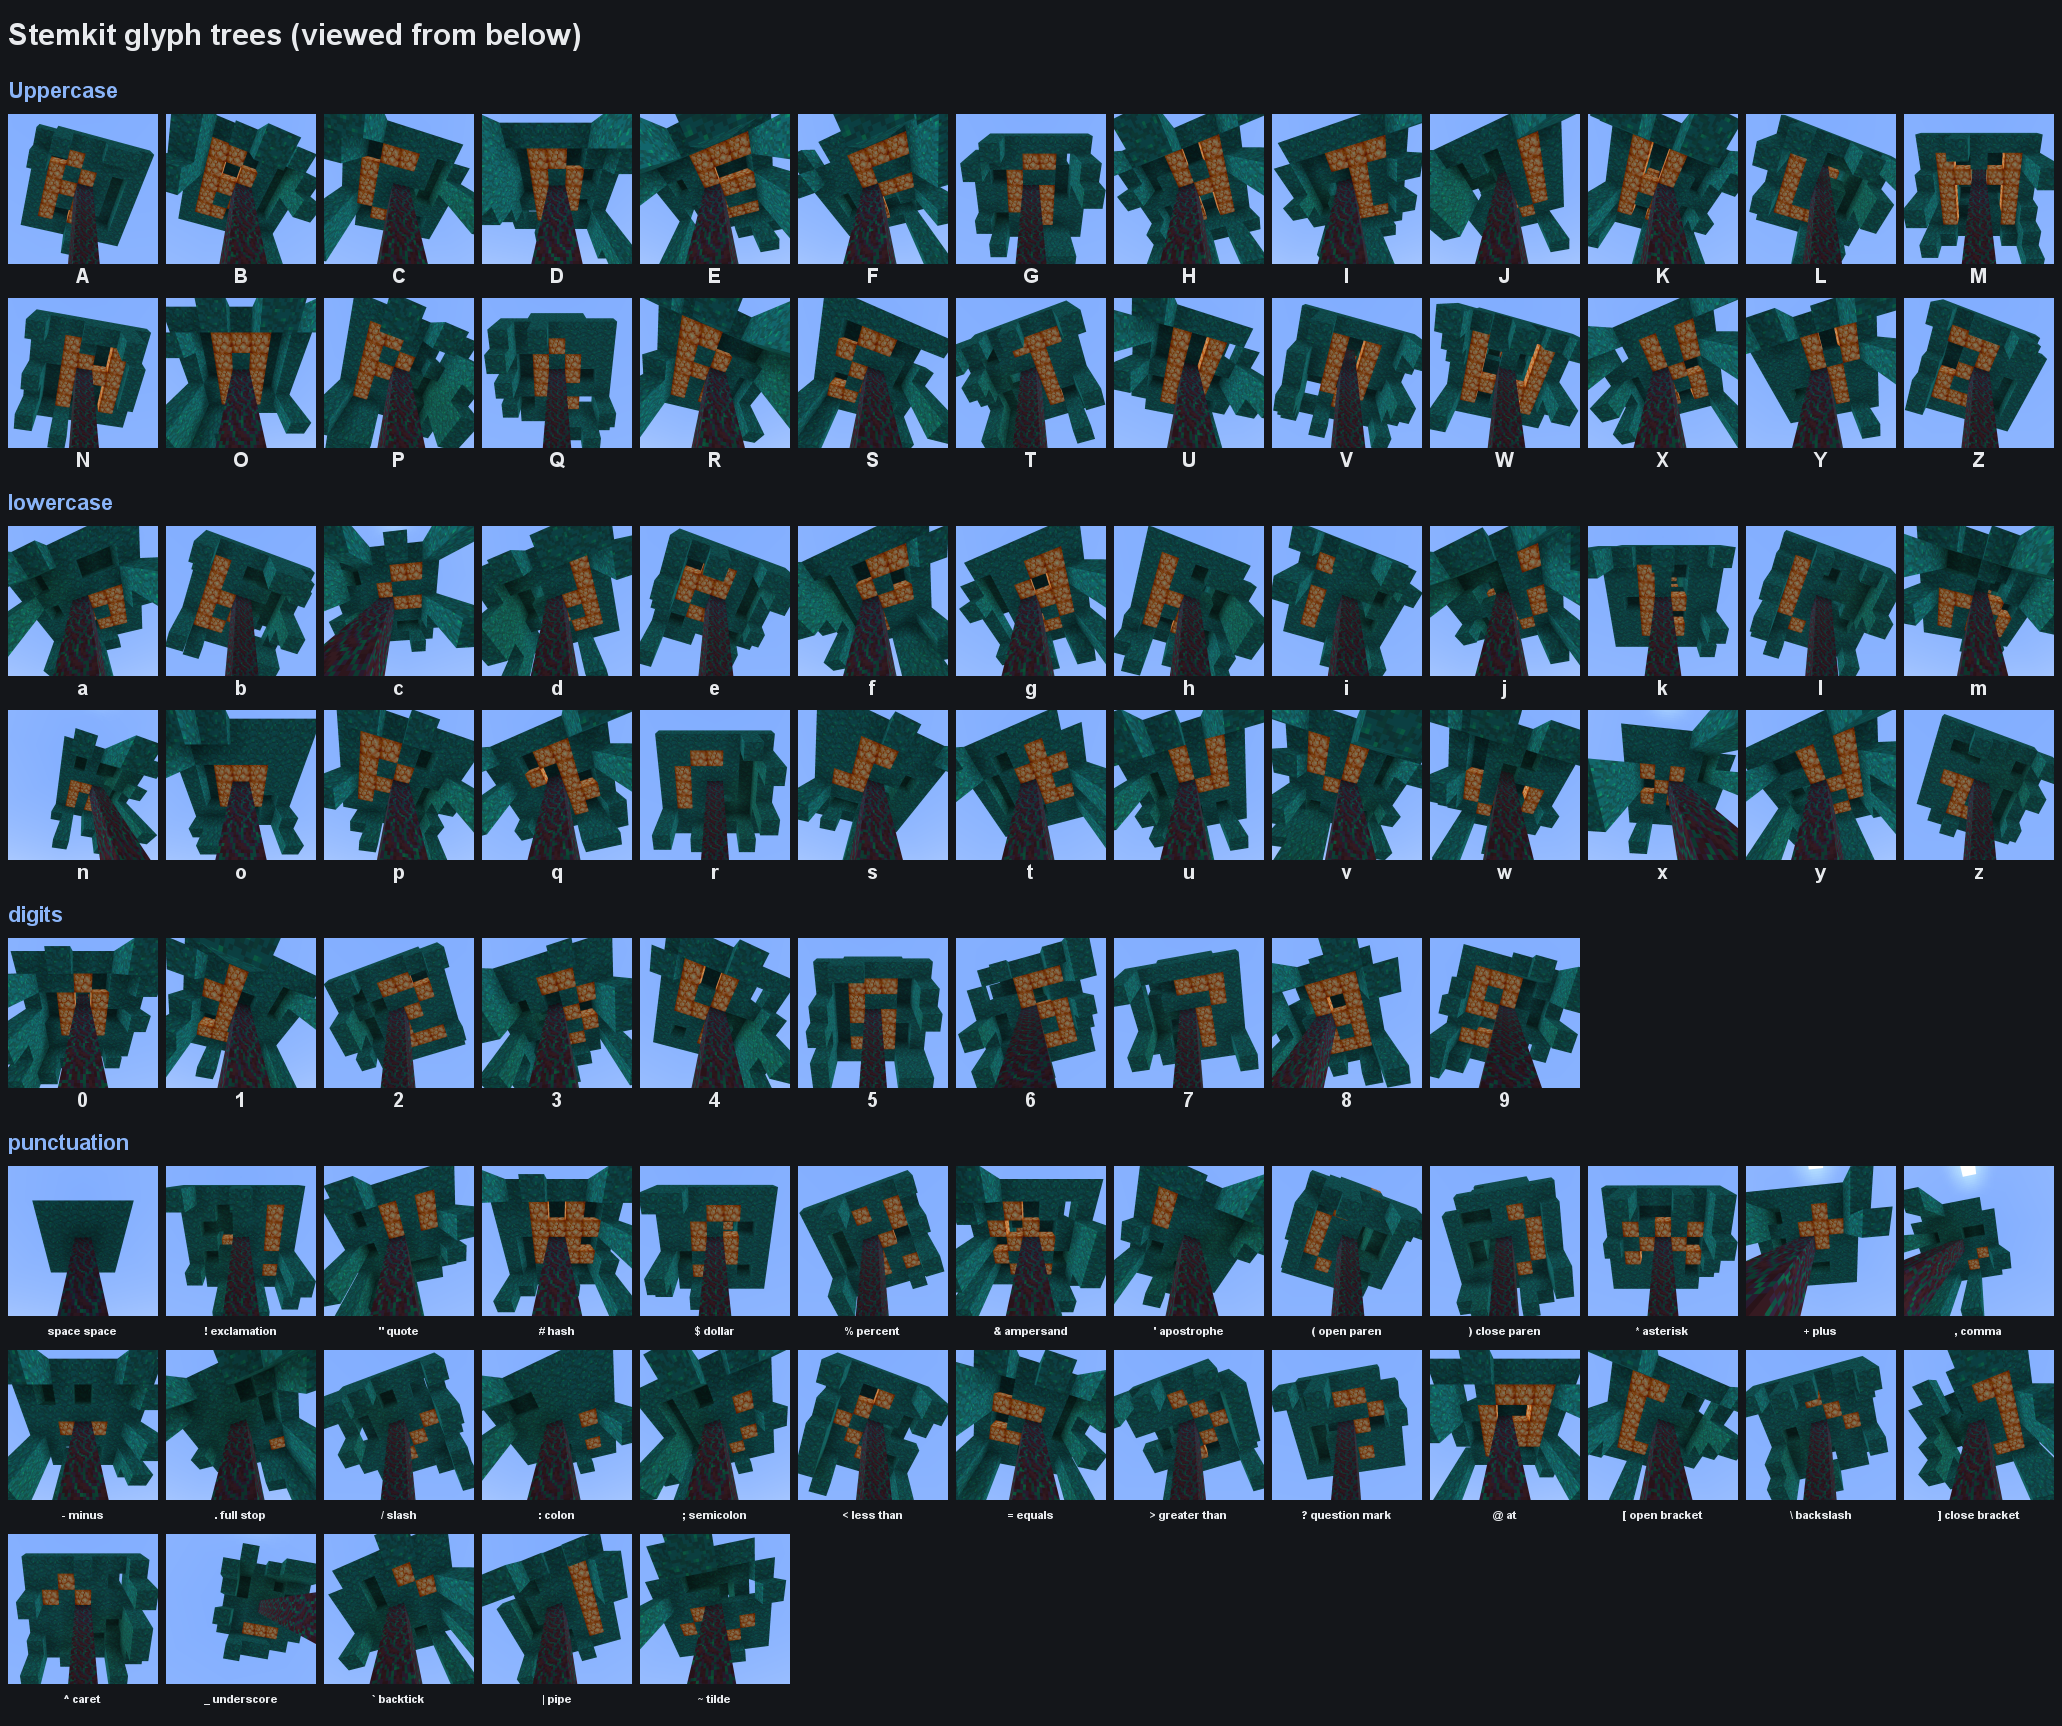
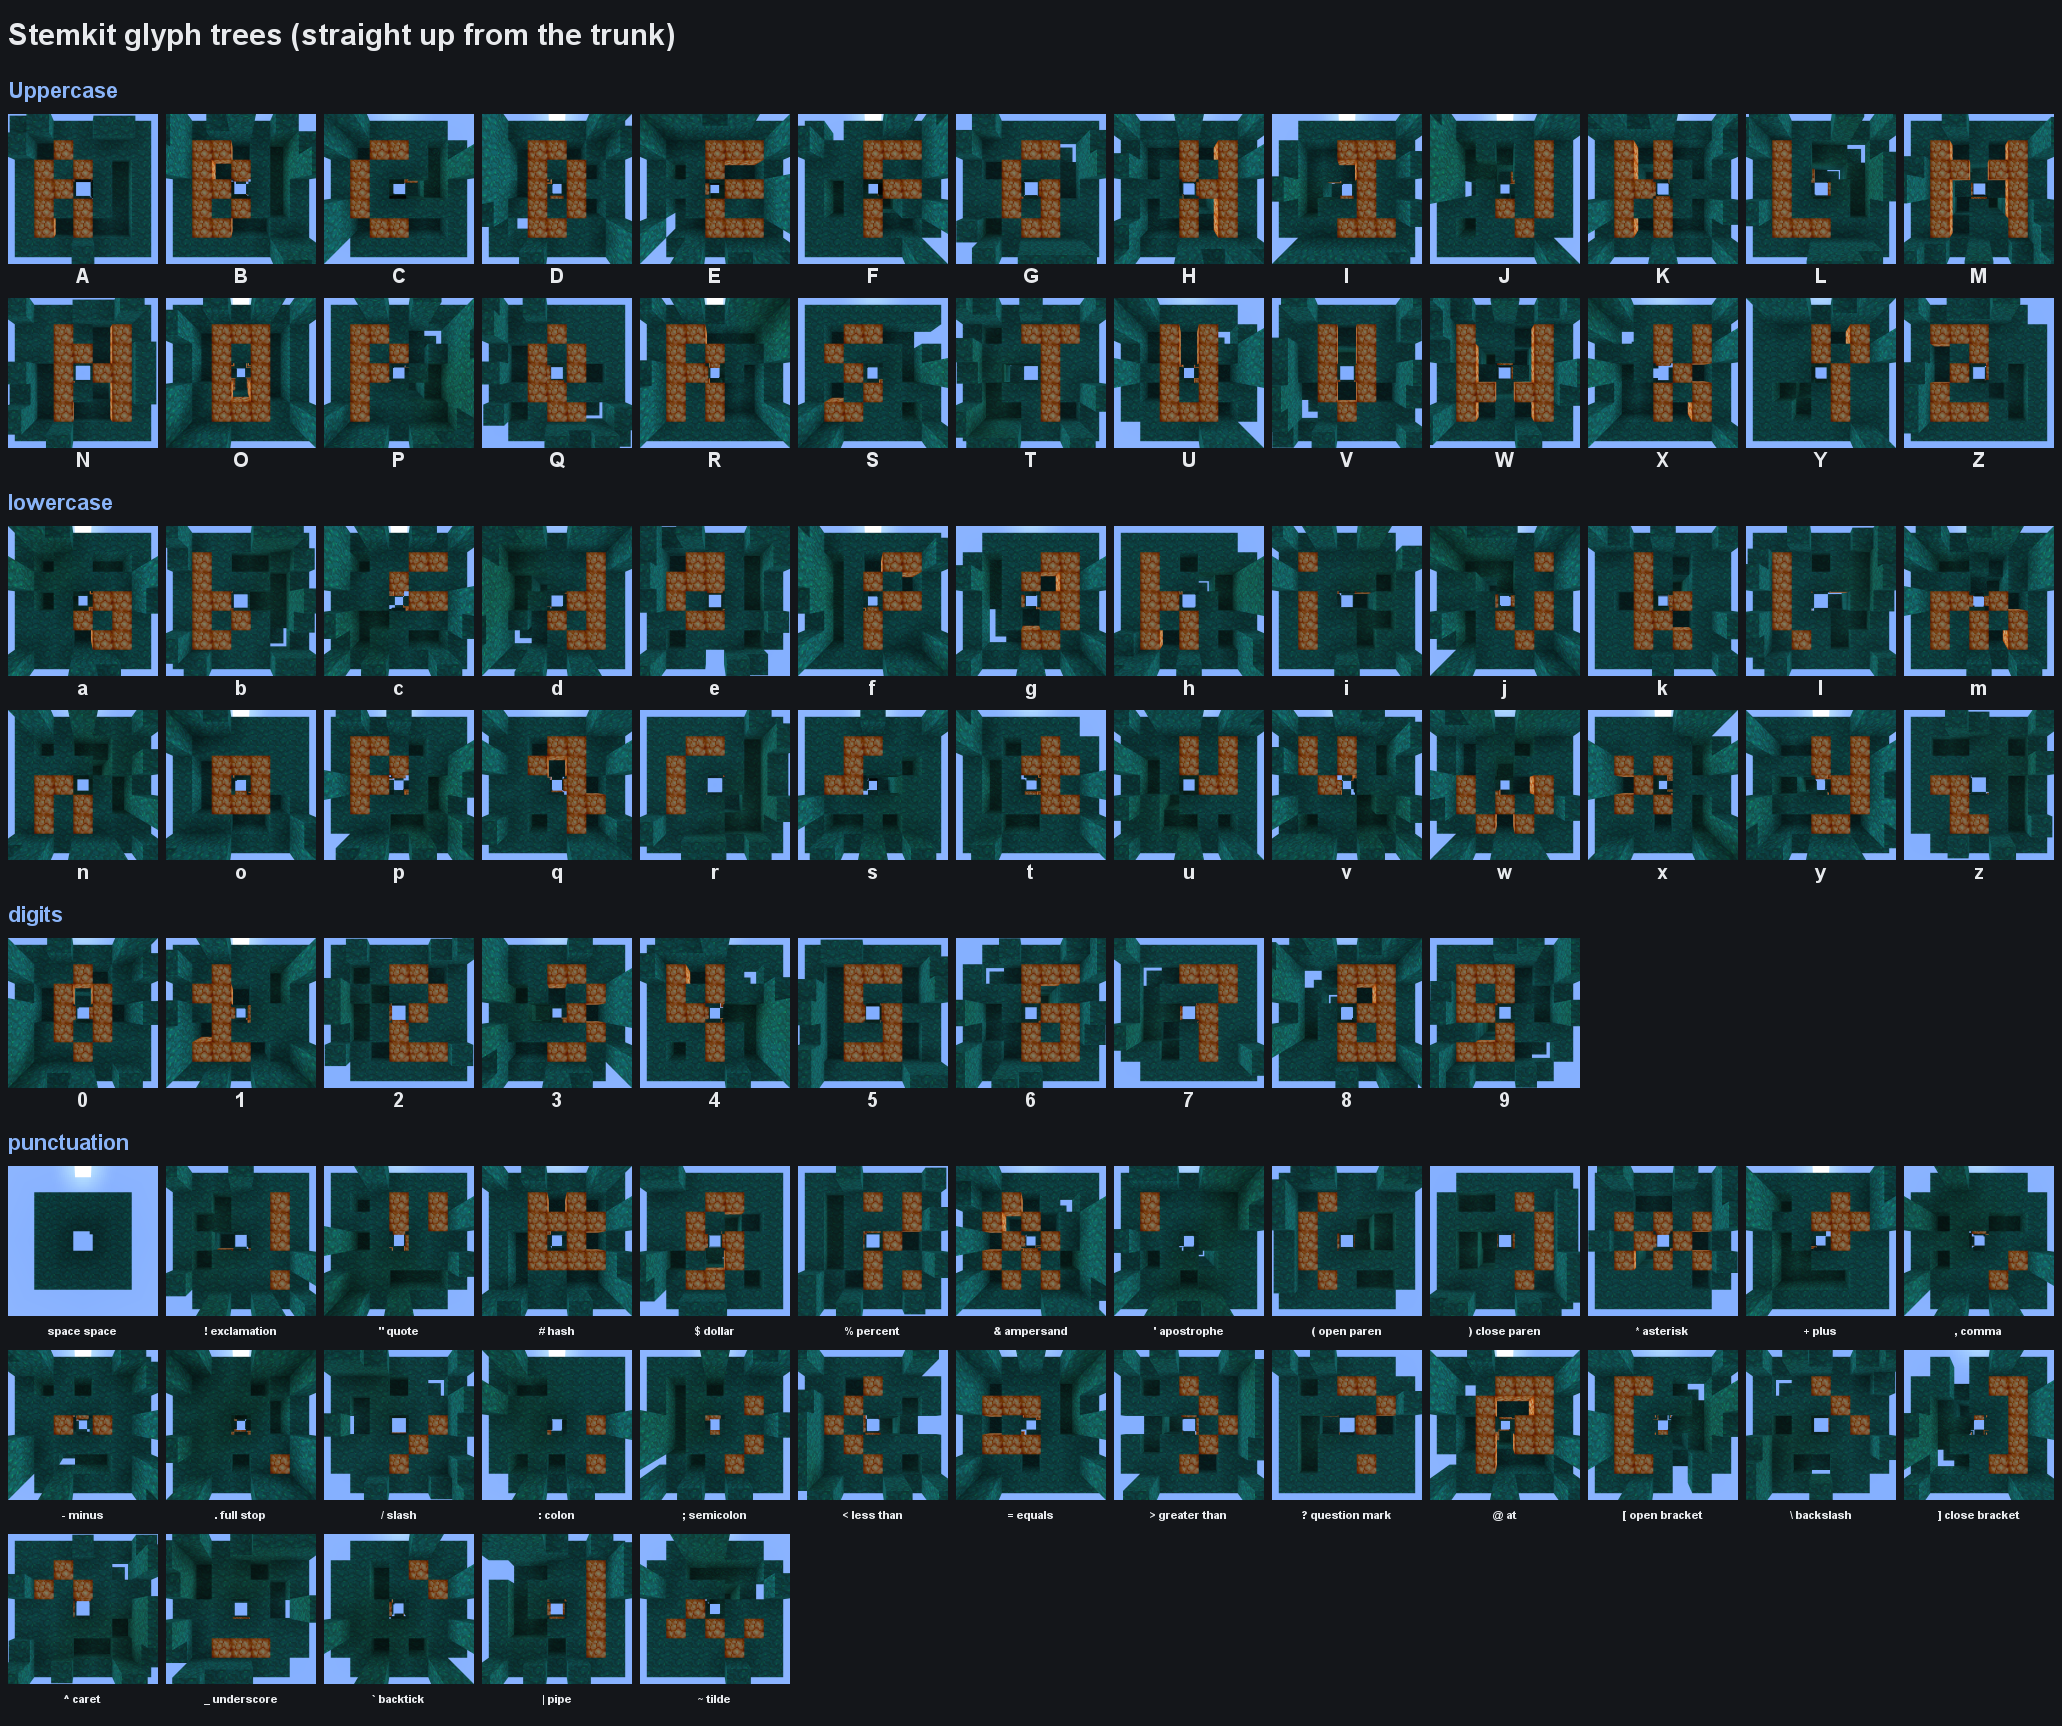
Straight-up glyph sheet in the README, usage for sibling and message, 1.3.4

diff --git a/mod/src/main/java/dev/stemkit/GlyphCommand.java b/mod/src/main/java/dev/stemkit/GlyphCommand.java
@@ -95,6 +95,12 @@ public final class GlyphCommand {
 		chr.then(allCmd("all_punct", "punctuation"));
 		root.then(chr);
 		root.then(Commands.literal("message")
+			.executes(c -> {
+				c.getSource().sendSuccess(() -> Component.literal("/stemkit message <text>").withStyle(ChatFormatting.WHITE), false);
+				c.getSource().sendSuccess(() -> Component.literal("Spells the text as one straight line of glyph trees running away from you. "
+					+ "Spaces become blank trees, characters with no tree are skipped. Example: /stemkit message hello world").withStyle(ChatFormatting.GRAY), false);
+				return 0;
+			})
 			.then(Commands.argument("text", StringArgumentType.greedyString())
 				.executes(c -> message(c.getSource(), Targeting.defaultPos(c.getSource()), StringArgumentType.getString(c, "text")))));
 	}

diff --git a/mod/src/main/java/dev/stemkit/StemkitCommand.java b/mod/src/main/java/dev/stemkit/StemkitCommand.java
@@ -71,6 +71,12 @@ public final class StemkitCommand {
 		root.then(growCmd);
 
 		root.then(Commands.literal("sibling")
+			.executes(c -> {
+				c.getSource().sendSuccess(() -> Component.literal("/stemkit sibling <seed> [pos]").withStyle(ChatFormatting.WHITE), false);
+				c.getSource().sendSuccess(() -> Component.literal("Grows the seed as warped (left) and crimson (right) and compares them, vines ignored. "
+					+ "Seed is a whole number from 0 to 281474976710655. Try 59438334661301 for an identical pair.").withStyle(ChatFormatting.GRAY), false);
+				return 0;
+			})
 			.then(Commands.argument("s0", LongArgumentType.longArg(0L, MASK48))
 				.executes(c -> sibling(c.getSource(), feet(c), LongArgumentType.getLong(c, "s0")))
 				.then(Commands.argument("pos", BlockPosArgument.blockPos())

diff --git a/README.md b/README.md
@@ -4,7 +4,7 @@ A small Fabric mod for Minecraft 26.3 that grows huge Nether fungi from an exact
 
 Every tree is grown by the game's own bone meal code (or its natural worldgen code), using the exact random state that made it. Glyph trees get turned (and the odd punctuation mark shifted) so they sit where they should, and that is the only change the mod makes to a tree.
 
-![Every glyph tree, seen from below](docs/img/glyphs.png)
+![Every glyph tree, from directly under the trunk looking straight up](docs/img/glyphs.png)
 
 ## Install
 
